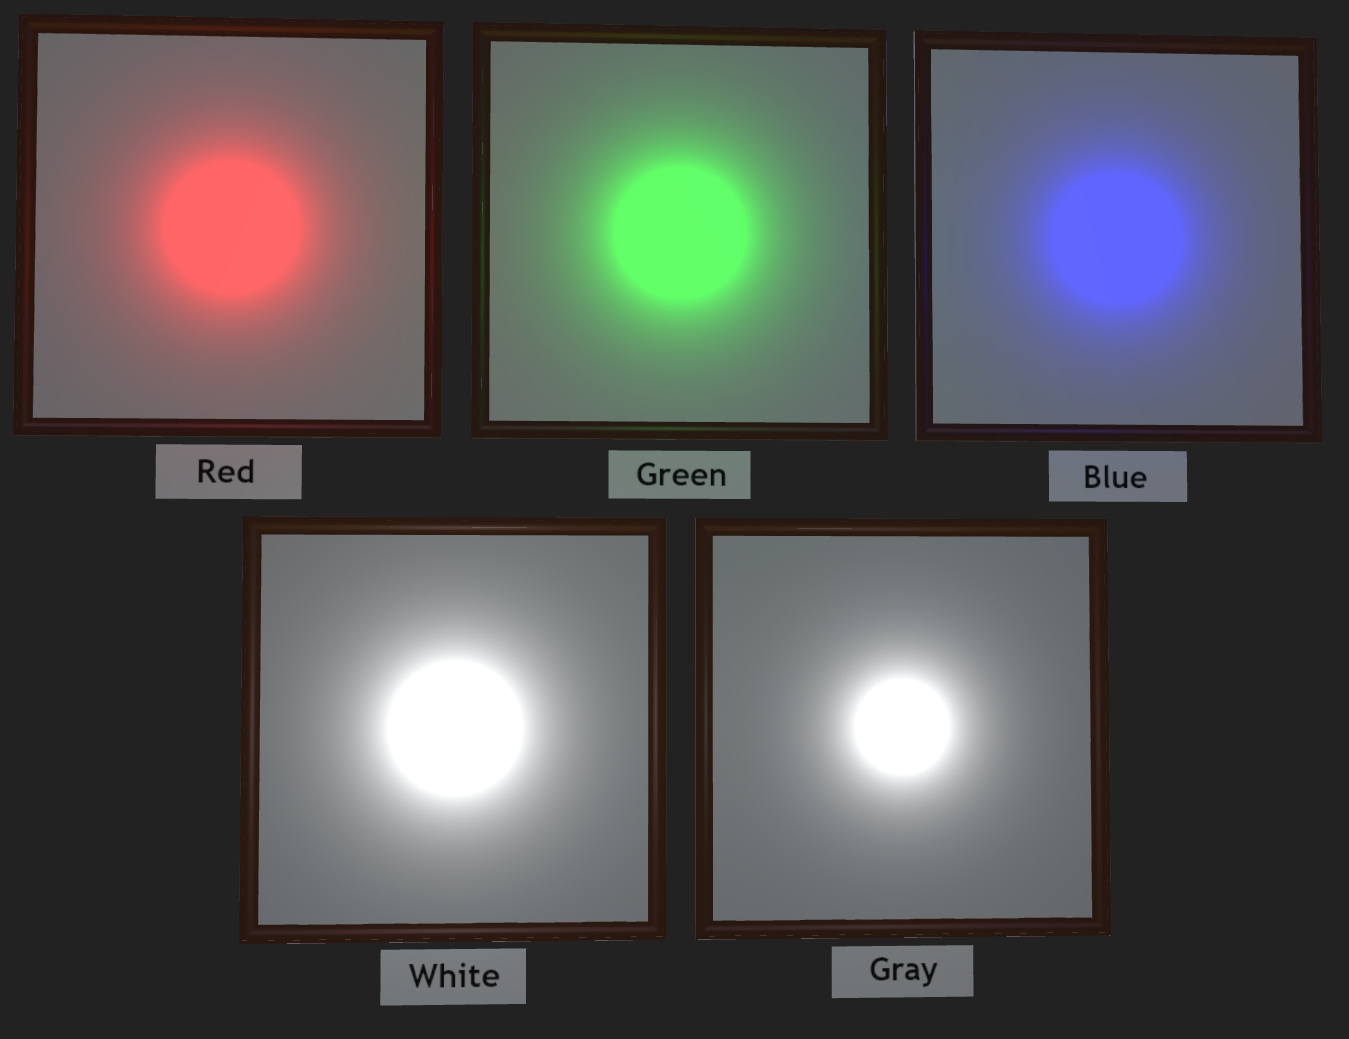
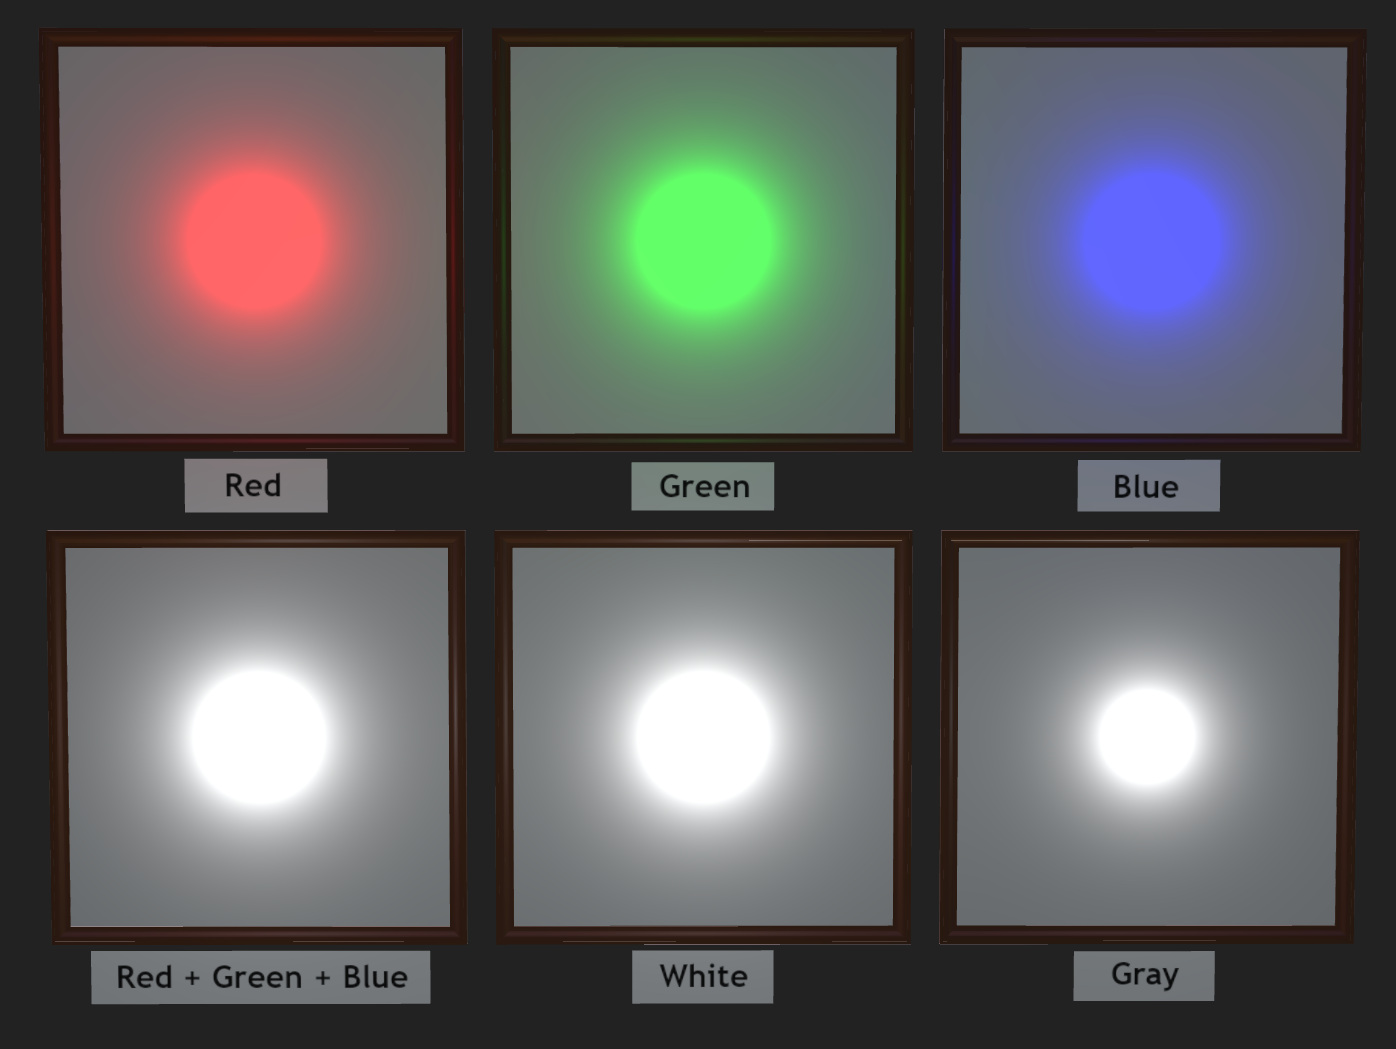
Add an additional test for R+G+B, update readme

diff --git a/Models/PointLightIntensityTest/README.body.md b/Models/PointLightIntensityTest/README.body.md
@@ -4,7 +4,7 @@
 
 ## Description
 
-This model tests various colors of point lights (via `KHR_lights_punctual`) that all share the same intensity.
+This model tests various colors of point lights (via `KHR_lights_punctual`) that all share the same intensity (1.0).
 
 It is intended to serve as a test for the following clarification that was added to the `KHR_lights_punctual` extension:
 
@@ -12,3 +12,13 @@ It is intended to serve as a test for the following clarification that was added
 
 In other words, all the lights share the same amount of raw energy, but do not share their perceptual brightness.  The blue lamp in particular should appear visually not as bright as other colors.
 
+The test material in each case is (0.8, 0.8, 0.8).  The lights are as follows:
+
+| Label | Color |
+|-------|-------|
+| Red                | (1.0, 0.0, 0.0) |
+| Green              | (0.0, 1.0, 0.0) |
+| Blue               | (0.0, 0.0, 1.0) |
+| Red + Green + Blue | Three colocated lights, matching the above |
+| White              | (1.0, 1.0, 1.0) |
+| Gray               | (0.5, 0.5, 0.5) |
